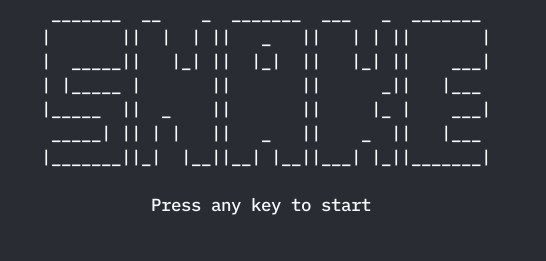
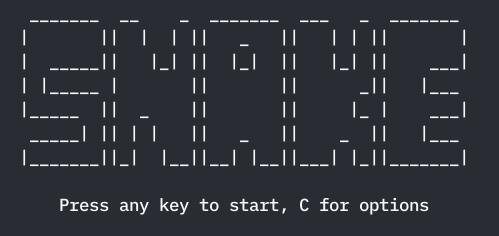
changed title screen text and added barriers mode

diff --git a/snake.py b/snake.py
@@ -1,4 +1,4 @@
-import os, random, json, time, threading, curses, traceback, menu
+import os, random, json, time, threading, curses, traceback, math, menu
 
 class game:
   def __init__(self):
@@ -102,7 +102,11 @@ class game:
     pixels = self.width*self.height
     #gets a random number between 1 and the number of pixels
     #minus the length
-    randint = random.randint(1,pixels-self.length)
+    if self.options["create_barriers"] == "False":
+      randint = random.randint(1,pixels-self.length)
+    else:
+      barriercount = math.floor(self.score/2)
+      randint = random.randint(1,pixels-self.length- barriercount)
     counter = 1
     break_ = False
     for y in range(0, self.height):
@@ -114,6 +118,40 @@ class game:
             #places food if condition is satisfied
             self.setPixel(x, y, -1)
             self.setDisplayPixel(x, y, "$")
+            break_ = True
+            break
+          #increase the counter if condition not satisfied
+          counter = counter + 1
+      if break_ == True:
+        break
+    
+    #iterate through the board
+    for y in range(0, self.height):
+      for x in range(0, self.width):
+        #if pixel contains a snake piece, increase the time until it despawns
+        if self.getPixel(x, y) > 0:
+          self.setPixel(x, y, self.getPixel(x, y)+1)
+
+  #this function generates a barrier, which is basically
+  #the same as the previous function
+  def generateBarrier(self):
+    pixels = self.width*self.height
+    #gets a random number between 1 and the number of pixels
+    #minus the length plus the food
+    barriercount = math.floor(self.score/2)
+    randint = random.randint(1,pixels-self.length-1- barriercount)
+    counter = 1
+    break_ = False
+    for y in range(0, self.height):
+      for x in range(0, self.width):
+        #checks to see if tile is elegible
+        if self.board[y][x] == 0:
+          #checks to see if the random number == the counter
+          if randint == counter:
+            #places food if condition is satisfied
+            self.setPixel(x, y, -2)
+            self.setDisplayPixel(x, y, self.data["displayCharactersASCII"]["barrier"])
+            self.setDisplayPixelNoScaling(x*2-1, y, self.data["displayCharactersASCII"]["barrier"])
             break_ = True
             break
           #increase the counter if condition not satisfied
@@ -197,6 +235,10 @@ class game:
       self.length = self.length + 1
       self.score = self.score + 1
 
+      #place a barrier every other point
+      if self.score%2 == 0:
+        self.generateBarrier()
+
       #calculate diffuculty, ignore if disabled
       if self.options["increase_difficulty"] == True:
         if self.score%5 == 0:
@@ -216,6 +258,10 @@ class game:
             self.setDisplayPixel(x, y, " ")
             #fix this later plz
             self.setDisplayPixelNoScaling(x*2-1, y, " ")
+    
+    #checks if snake has run into a barrier
+    if self.board[self.head[1]][self.head[0]] == -2:
+      return False
     
     #checks to see if snake has run into itself
     if self.board[self.head[1]][self.head[0]] > 0:

diff --git a/README.md b/README.md
@@ -1,7 +1,9 @@
 ## Snake game in the terminal!
 ![title screen](https://raw.githubusercontent.com/ading2210/snake-cli/master/images/title.png)
+
 ![game](https://raw.githubusercontent.com/ading2210/snake-cli/master/images/game.png)
 ![game over screen](https://raw.githubusercontent.com/ading2210/snake-cli/master/images/gameover.png)
+![game over screen](https://raw.githubusercontent.com/ading2210/snake-cli/master/images/barriers.png)
 
 This is a snake game in the cli, written in python. 
 
